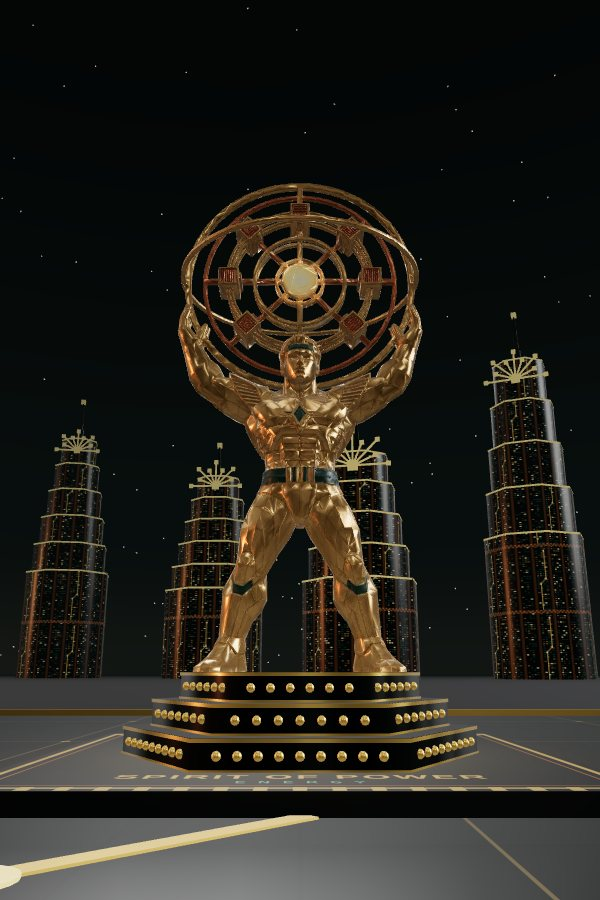
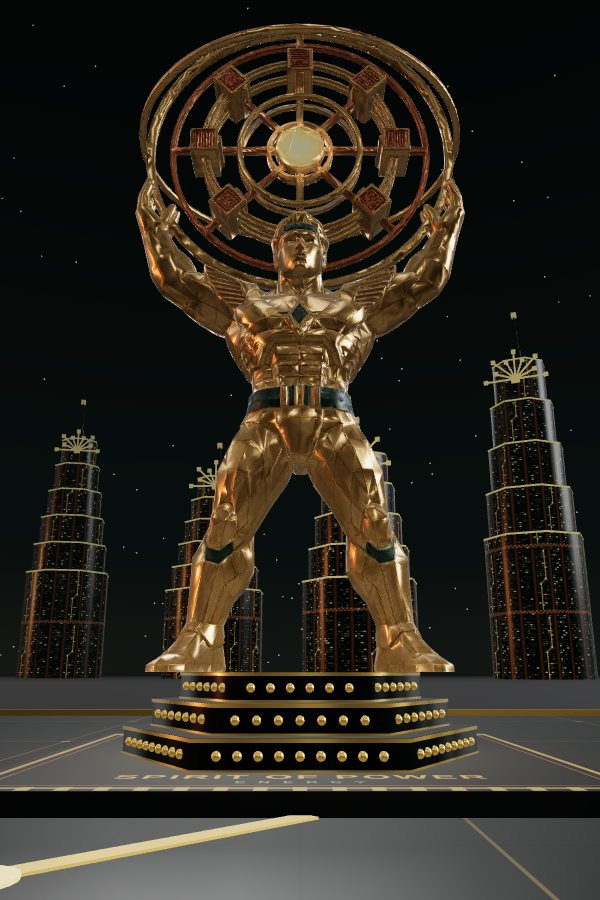
Plaza: one head height for the standing Spirits; Communication B by default
Figures were scaled to fill the whole statue height, so whatever a Spirit
holds overhead shrank the figure: Power's sphere made him short, and
Communication's small rings made her tall. A standing figure with a
measured head height (ownPlinth.head) is now scaled so its head stands at
FIGURE_HEAD, 9.6 m above the pad. Power, Knowledge, Life and Communication
use it; Computation (on his globe) and Innovation (kneeling) are unchanged.

Communication B is now the default, with A still on the plaque switch.

Claude-Session: https://claude.ai/code/session_01A6Jj3xDDNxQ4ycFxda9Tv7

Changed region(s): [[0.21, 0.0, 0.78, 0.7467]]

diff --git a/web/src/spirits.ts b/web/src/spirits.ts
@@ -38,13 +38,24 @@ export type Spirit = {
    * rest of the statue's height. `tiers` are the hexagons' corner radii in
    * metres, bottom to top (default: the series plinth).
    */
-  ownPlinth?: { top: number; cx: number; cz: number; height?: number; tiers?: [number, number, number] };
+  ownPlinth?: {
+    top: number; cx: number; cz: number; height?: number; tiers?: [number, number, number];
+    /**
+     * Top of the figure's head, in the same raw units as `top`. When given, the
+     * figure is scaled so its head stands at FIGURE_HEAD above the pad, so every
+     * standing Spirit is the same size whatever it holds overhead.
+     */
+    head?: number;
+  };
   /**
    * Alternative models to compare in place. The plaque card shows a button for
    * each; the first is the one shown by default and should match `model`.
    */
   variants?: { label: string; model: string; ownPlinth?: Spirit["ownPlinth"] }[];
 };
+
+/** Where a standing figure's head reaches, in metres above its pad: plinth plus figure. */
+export const FIGURE_HEAD = 9.6;
 
 /** Avenue half-width to the statue centres. */
 export const SIDE_X = 16;
@@ -88,7 +99,7 @@ export const SPIRITS: Spirit[] = [
     render: "renders/power.jpg",
     model: "models/power.glb",
     // Its own plinth ends at 2.74 m; the figure is lowered onto the 1.4 m series plinth.
-    ownPlinth: { top: 2.74, cx: 0, cz: 0.05, height: 1.4 },
+    ownPlinth: { top: 2.74, cx: 0, cz: 0.05, height: 1.4, head: 7.8 },
   },
   {
     id: "knowledge",
@@ -102,7 +113,7 @@ export const SPIRITS: Spirit[] = [
     render: "renders/knowledge.jpg",
     model: "models/knowledge.glb",
     // Its own plinth ends at 3.58 m; the robe hem stands on the 1.4 m series plinth.
-    ownPlinth: { top: 3.58, cx: 0, cz: 0.1, height: 1.4 },
+    ownPlinth: { top: 3.58, cx: 0, cz: 0.1, height: 1.4, head: 9.0 },
   },
   {
     id: "communication",
@@ -115,12 +126,13 @@ export const SPIRITS: Spirit[] = [
       "and a sash of optical fiber carries light across her body to a fan of glowing tips.",
     x: SIDE_X, z: ROWS[1]!, height: 12, pad: 4.5, base: 0,
     render: "renders/communication.jpg",
-    model: "models/communication.glb",
-    // Measured with scripts/measure-plinth.mjs (this export is 1.9 m tall in raw units).
-    ownPlinth: { top: 0.206, cx: 0.005, cz: -0.005, height: 1.4 },
+    // Variant B is the chosen one; A stays switchable on the plaque card.
+    // Measured with scripts/measure-plinth.mjs (these exports are 1.9 m tall in raw units).
+    model: "models/communication-b.glb",
+    ownPlinth: { top: 0.262, cx: 0.004, cz: -0.038, height: 1.4, head: 1.726 },
     variants: [
-      { label: "A", model: "models/communication.glb", ownPlinth: { top: 0.206, cx: 0.005, cz: -0.005, height: 1.4 } },
-      { label: "B", model: "models/communication-b.glb", ownPlinth: { top: 0.262, cx: 0.004, cz: -0.038, height: 1.4 } },
+      { label: "B", model: "models/communication-b.glb", ownPlinth: { top: 0.262, cx: 0.004, cz: -0.038, height: 1.4, head: 1.726 } },
+      { label: "A", model: "models/communication.glb", ownPlinth: { top: 0.206, cx: 0.005, cz: -0.005, height: 1.4, head: 1.678 } },
     ],
   },
   {
@@ -158,7 +170,7 @@ export const SPIRITS: Spirit[] = [
     render: "renders/life.jpg",
     model: "models/life.glb",
     // Its own plinth ends at 2.87 m; she and the helix staff stand on the 1.4 m series plinth.
-    ownPlinth: { top: 2.87, cx: 0.3, cz: 0.5, height: 1.4 },
+    ownPlinth: { top: 2.87, cx: 0.3, cz: 0.5, height: 1.4, head: 10.2 },
   },
   {
     id: "liberty",

diff --git a/web/src/scene/Statue.tsx b/web/src/scene/Statue.tsx
@@ -7,7 +7,7 @@ import {
 } from "three";
 import { GLTFLoader } from "three/examples/jsm/loaders/GLTFLoader.js";
 import { MeshoptDecoder } from "three/examples/jsm/libs/meshopt_decoder.module.js";
-import { facingYaw, type Spirit, withVariant } from "../spirits";
+import { facingYaw, FIGURE_HEAD, type Spirit, withVariant } from "../spirits";
 import { useStore } from "../store";
 import { C, glowTexture, padTexture } from "./textures";
 
@@ -64,7 +64,9 @@ function useModel(s: Spirit): Object3D | null {
         const size = box.getSize(new Vector3());
         const op = s.ownPlinth;
         // With a code-drawn plinth, the figure above the cut fills the height left over.
-        const k = op ? (s.height - plinthHeight(s)) / (size.y - op.top) : s.height / size.y;
+        const k = op?.head
+          ? (FIGURE_HEAD - plinthHeight(s)) / (op.head - op.top)
+          : op ? (s.height - plinthHeight(s)) / (size.y - op.top) : s.height / size.y;
         root.scale.setScalar(k);
         const cx = op ? op.cx : (box.min.x + box.max.x) / 2;
         const cz = op ? op.cz : (box.min.z + box.max.z) / 2;
